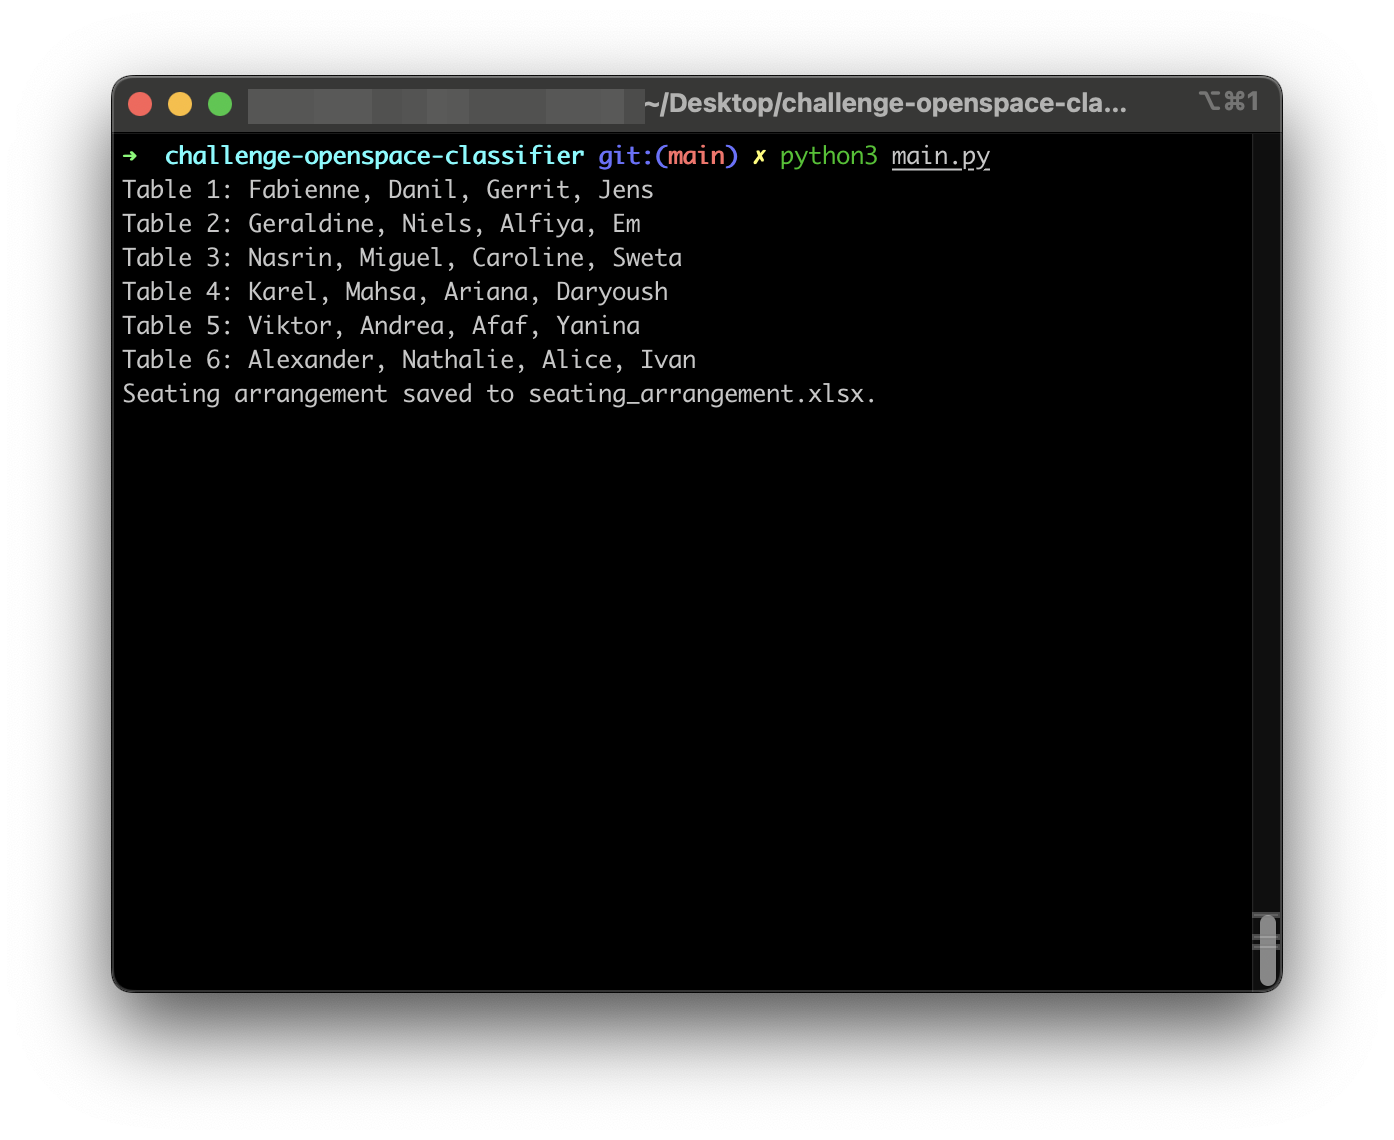
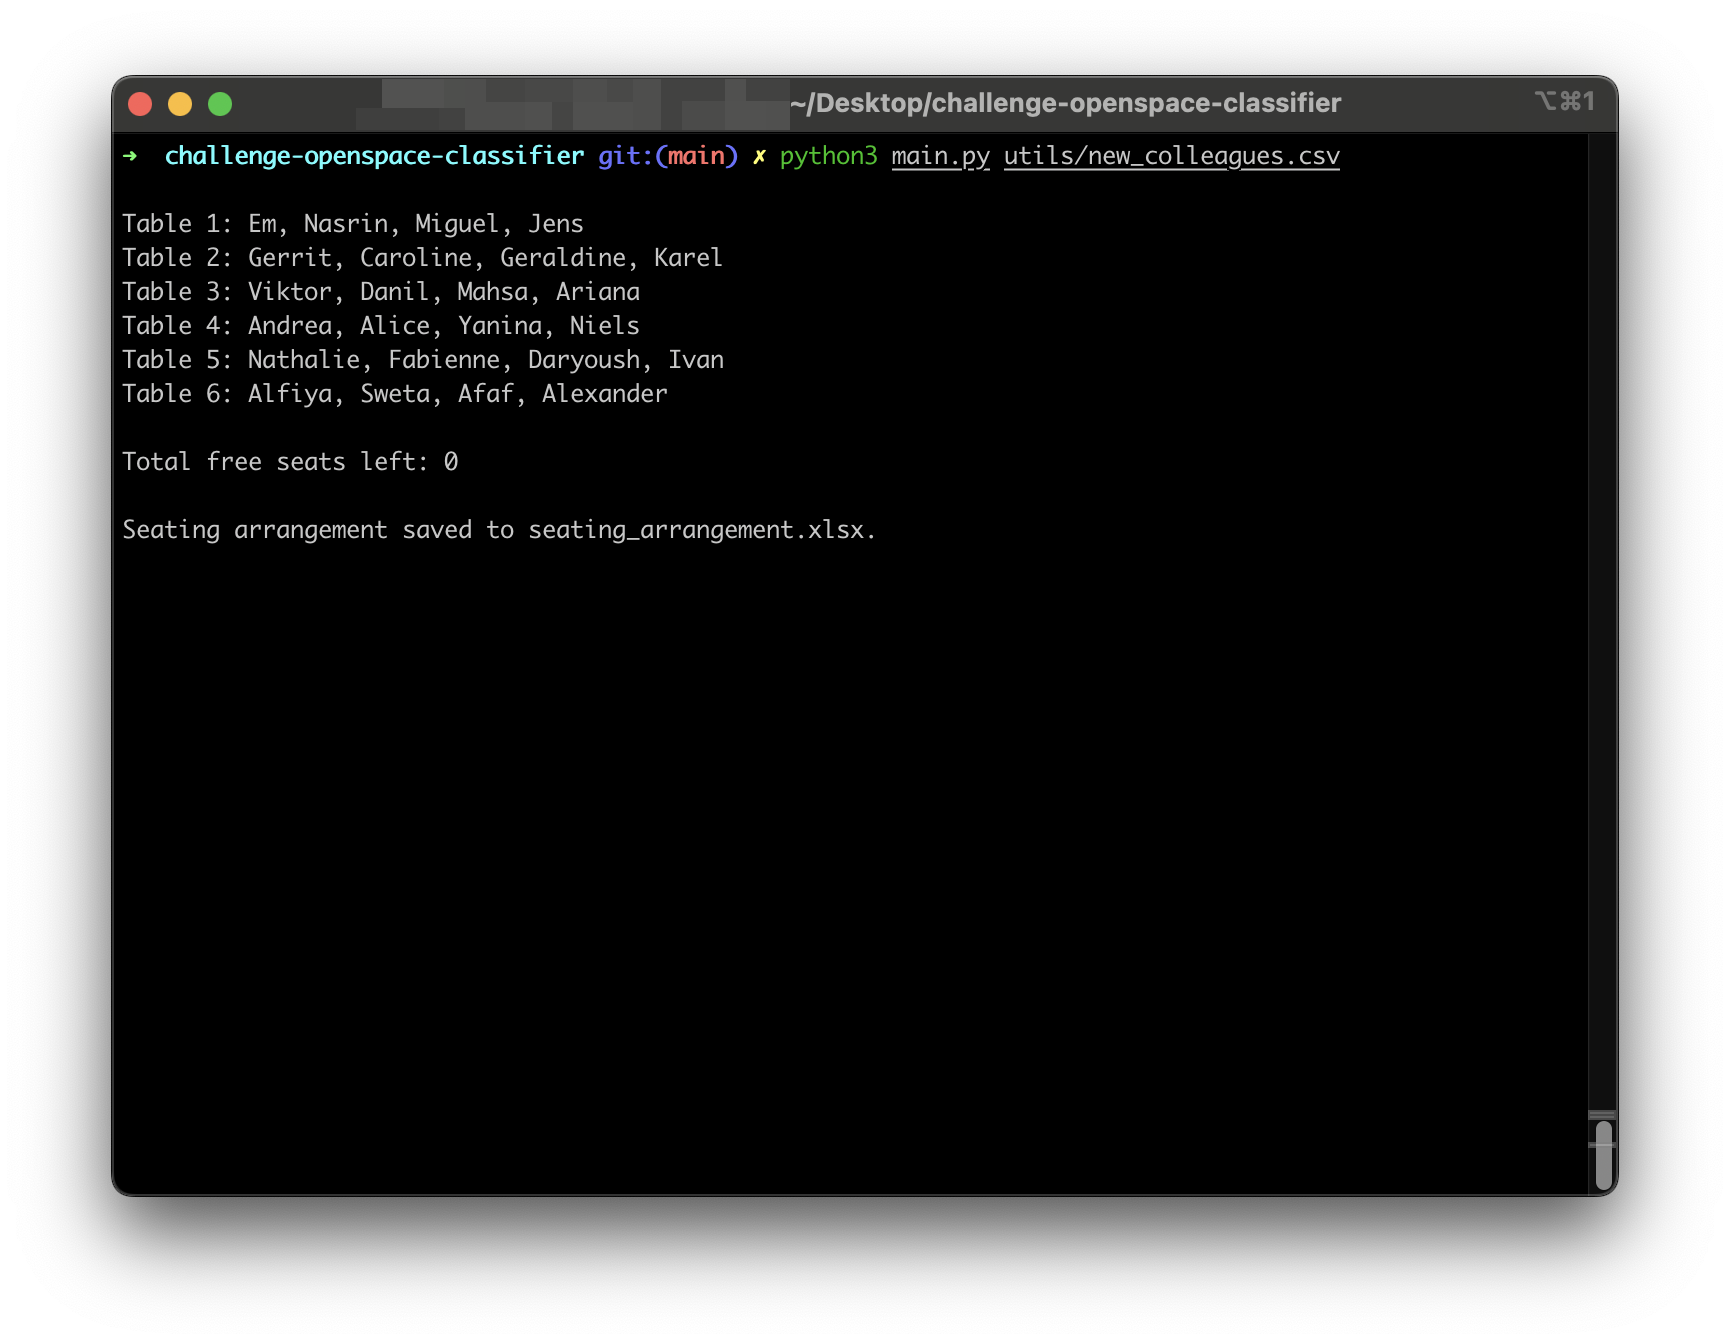
Updated version with added additional features to make the program more flexible and user friendly.

Changed region(s): [[0.0308, 0.0307, 0.9562, 0.9518]]

diff --git a/main.py b/main.py
@@ -1,23 +1,42 @@
 import csv
+import argparse
 
 from utils.openspace import Openspace
 
-def read_names_from_csv(path):
+# Setup argparse
+parser = argparse.ArgumentParser(description='OpenSpace Organizer')
+parser.add_argument('filepath', help='The filepath of the CSV file containing the list of colleagues.')
+args = parser.parse_args()
+
+def read_names_from_csv(filepath):
     names = []
-    with open(path, newline='') as csvfile:
+    with open(filepath, newline='') as csvfile:
         for row in csv.reader(csvfile):
             names.append(row[0]) # make sure that names are in the first column
     return(names)
 
 openspace = Openspace(6)
 
-names = read_names_from_csv('utils/new_colleagues.csv')
+names = read_names_from_csv(args.filepath)
 
 result = openspace.organize(names)
 
 if result is not None:
     print(result)
 
+
 openspace.display()
+print()
+
+# Count and display the total free seats left
+total_free_seats = 0
+for table in openspace.tables:
+    for seat in table.seats:
+        # Check if the seat is free by checking if the occupant is None
+        if seat.occupant is None:
+            total_free_seats += 1
+print(f"Total free seats left: {total_free_seats}")
+
+print()
 
 openspace.store('seating_arrangement.xlsx')

diff --git a/README.md b/README.md
@@ -12,9 +12,31 @@ The OpenSpace Organizer is a Python-based tool designed to dynamically allocate 
 
 ## Usage
 
-To run the OpenSpace Organizer, execute the main.py script. Ensure you have a CSV file named new_colleagues.csv in the utils directory with the names of the participants.
+### Running the Program
 
-    python main.py
+To run the program, navigate to the project directory in your terminal and execute the following command:
+
+    python main.py <path_to_your_csv_file>
+
+Replace <path_to_your_csv_file> with the actual path to your CSV file containing the names of the colleagues. For example:
+
+    python main.py utils/new_colleagues.csv
+
+This command initiates the program, which reads the list of names from the specified CSV file, randomly assigns seating arrangements, and displays the results along with any unassigned names and the number of free seats left.
+
+### CSV File Format
+
+The CSV file should be formatted with one name per line, as shown below:
+
+    Will Smith
+    Leonardo DiCaprio
+    Bill Gates
+    Morgan Freeman
+    Barack Obama
+    ...
+
+Ensure there are no headers in the file for the program to function correctly.
+
 
 ## Visuals
 
